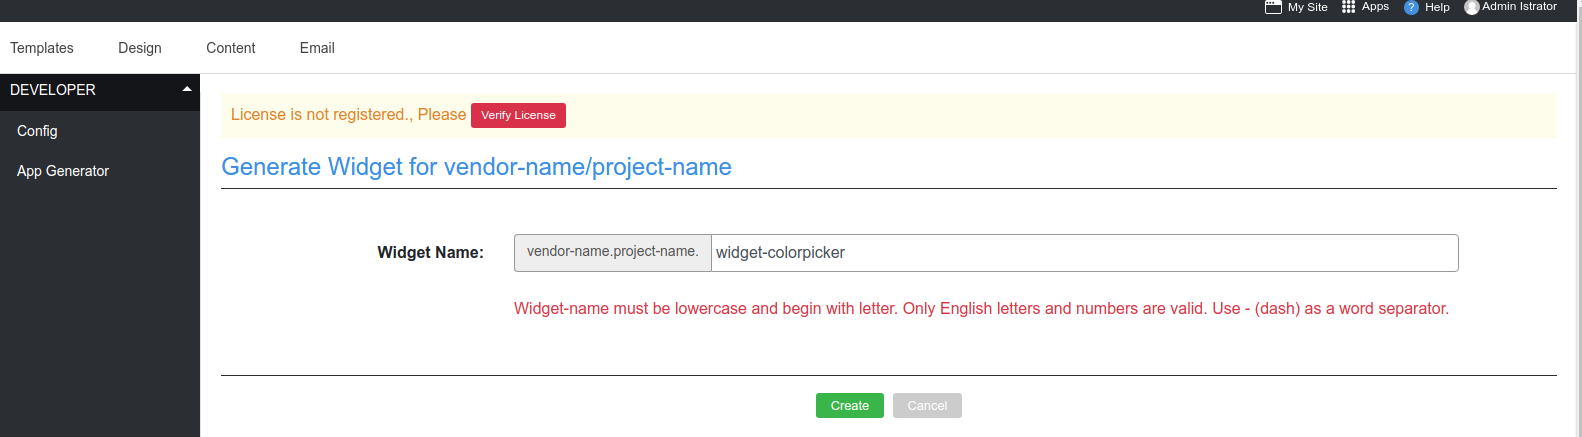
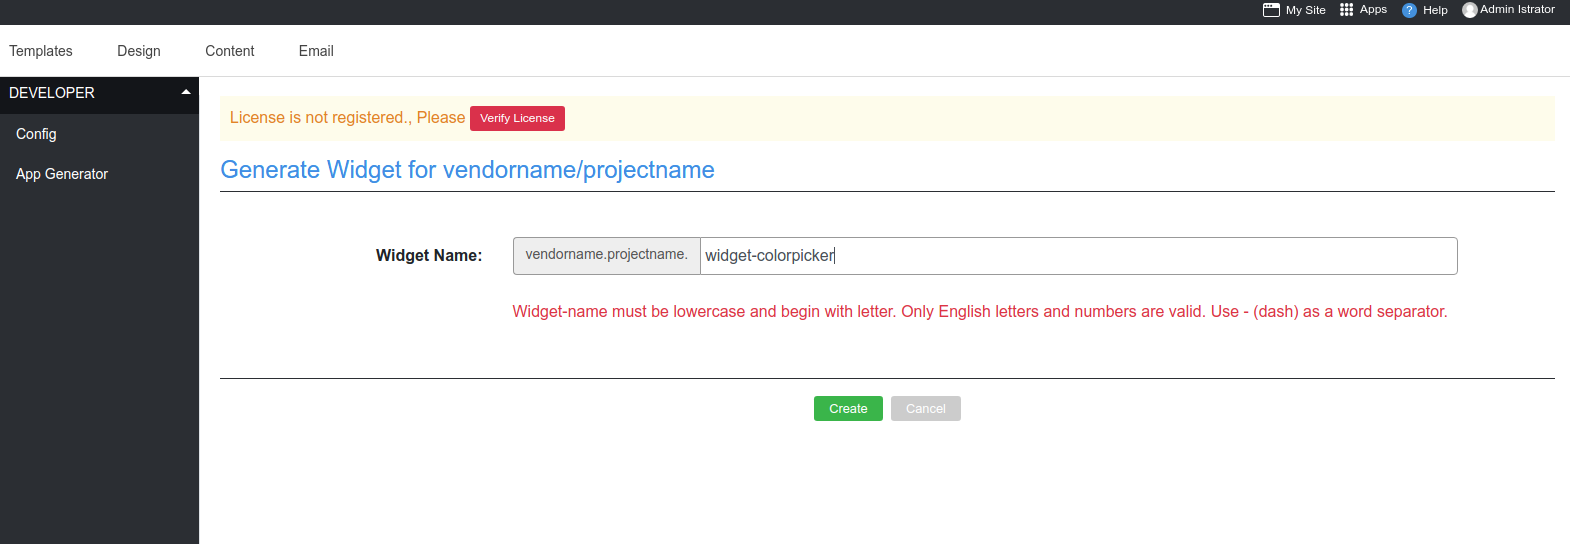
update colorpicker#3

diff --git a/en/images/troubleshooting.php b/en/images/troubleshooting.php
@@ -1,0 +1,178 @@
+<style>
+
+body{
+font-size:24px;
+  background: rgb(255,255,255);
+  color:#303030;
+  font-family:Tahoma, Verdana;
+}
+.content-l {
+   background:url(https://cdn.rvtheme.com/img/img_error.svg) no-repeat center center;
+  background-size:80%;
+  width:50%;
+  float:left;
+  height:100%;
+  position:fixed;
+  top:0;
+  bottom:0;
+  left:0;	
+}
+.content-r {
+  background: #f1f3f2;
+  width:50%;
+  float:right;
+  height:100%;
+  position:fixed;
+  top:0;
+  bottom:0;
+  right:0;
+  overflow-y: auto;
+}
+.content-r .padd {
+  padding:10% 8%;
+}
+ h1 {
+  color: #f25a29;
+  font-size:36px;
+  margin-bottom:35px;
+}
+h2 {
+  font-size:26px;
+  color:#353535;
+}
+a.btn{
+  background: #f25a29;
+  color:#fff;
+  display:block;
+  padding:10px;
+  width:100px;
+  border-radius:100px;
+  text-decoration:none;
+  text-align:center;
+  padding:2px 5px;
+  margin-top:10px;
+  font-size:18px;
+  line-height:1.8em;
+}
+ul {
+ color:#303030;
+}
+ul li{
+ padding-bottom:15px;
+ line-height:1.6em;
+}
+
+</style>
+<?php
+
+function show_solution_msg()
+{
+    echo '<div class="rvcontainer">';
+    echo '<div class="content-l"></div>';
+    echo '<div class="content-r"><div class="padd">';
+    echo '<h1>This website is temporarily unavailable, please try again later.</h1>';
+            
+           
+
+    $solution_lists = find_solution();
+    echo '<h2>Troubleshooting:</h2>';
+    echo '<ul>';
+    if (count($solution_lists)) {
+        foreach ($solution_lists as $solution) {
+            printf('<li><strong></strong> %s <br/><strong></strong> %s</li>', $solution['msg'], $solution['solution']);
+        }
+    } else {
+        echo 'Please use rvsitebuilder installer to repair website and check again., If not work please contact your provider.';
+    }
+    echo '</ul>';
+    echo '</div></div>';
+    echo '</div>';
+}
+
+// https://gitlab.rvglobalsoft.netway.pro/rvglobalsoft/rvsitebuildercms-real-setup/blob/develop/setupapiserver.php pre_check_php()
+function find_solution()
+{
+    //require APP_DEBUG=false
+    //TODO: check msg error to validation
+    $error = error_get_last();
+    $solution_lists = [];
+    if (version_compare(PHP_VERSION, '7.1.3') < 0) {
+        $solution_lists['version_not_match'] = [];
+        $solution_lists['version_not_match']['msg'] = 'Your PHP version has not match'.PHP_VERSION.' but we require atleast 7.1.3';
+        $solution_lists['version_not_match']['solution'] = 'Please see our Minimum Installation Requirements <br> <a href="https://rvsitebuilder.com/installation/" target="_blank" class="btn">HELP</a>';
+    }
+
+    //php extension
+    if (!extension_loaded('json')) {
+        $solution_lists['php_extension_json'] = [];
+        $solution_lists['php_extension_json']['msg'] = 'Can not load PHP Extension (json)';
+        $solution_lists['php_extension_json']['solution'] = 'Please enable json extensions <br> <a href="https://support.rvglobalsoft.com/hc/en-us/articles/360034638954-Installation-issue-on-CloudLinux-System" target="_blank" class="btn">HELP</a>';
+    }
+    if (!extension_loaded('mysqlnd')) {
+        $solution_lists['php_extension_mysqlnd'] = [];
+        $solution_lists['php_extension_mysqlnd']['msg'] = 'Can not load PHP Extension (mysqlnd)';
+        $solution_lists['php_extension_mysqlnd']['solution'] = 'Please enable mysqlnd extensions <br> <a href="https://support.rvglobalsoft.com/hc/en-us/articles/360034638994-Installation-issue-on-EasyApache" target="_blank" class="btn">HELP</a>';
+    }
+
+    if (!extension_loaded('pdo')) {
+        $solution_lists['php_extension_pdo'] = [];
+        $solution_lists['php_extension_pdo']['msg'] = 'Can not load PHP Extension (pdo)';
+        $solution_lists['php_extension_pdo']['solution'] = 'Please enable pdo extensions <br> <a href="https://support.rvglobalsoft.com/hc/en-us/articles/360034638994-Installation-issue-on-EasyApache" target="_blank" class="btn">HELP</a>';
+    }
+
+    if (!extension_loaded('curl')) {
+        $solution_lists['php_extension_curl'] = [];
+        $solution_lists['php_extension_curl']['msg'] = 'Can not load PHP Extension (curl)';
+        $solution_lists['php_extension_curl']['solution'] = 'Please enable curl extensions <br> <a href="https://support.rvglobalsoft.com/hc/en-us/articles/360034638994-Installation-issue-on-EasyApache" target="_blank" class="btn">HELP</a>';
+    }
+
+    if (!extension_loaded('iconv')) {
+        $solution_lists['php_extension_iconv'] = [];
+        $solution_lists['php_extension_iconv']['msg'] = 'Can not load PHP Extension (iconv)';
+        $solution_lists['php_extension_iconv']['solution'] = 'Please enable iconv extensions <br> <a href="https://support.rvglobalsoft.com/hc/en-us/articles/360034638994-Installation-issue-on-EasyApache" target="_blank" class="btn">HELP</a>';
+    }
+
+    if (!extension_loaded('mbstring')) {
+        $solution_lists['php_extension_mbstring'] = [];
+        $solution_lists['php_extension_mbstring']['msg'] = 'Can not load PHP Extension (mbstring)';
+        $solution_lists['php_extension_mbstring']['solution'] = 'Please enable mbstring extensions <br> <a href="https://support.rvglobalsoft.com/hc/en-us/articles/360034638994-Installation-issue-on-EasyApache" target="_blank" class="btn">HELP</a>';
+    }
+
+    if (!extension_loaded('imagick') && !extension_loaded('gd')) {
+        $solution_lists['php_extension_image_lib'] = [];
+        $solution_lists['php_extension_image_lib']['msg'] = 'Can not load PHP Extension (imagick or gd)';
+        $solution_lists['php_extension_image_lib']['solution'] = 'Please enable imagick or gd extensions <br> <a href="https://support.rvglobalsoft.com/hc/en-us/articles/360034638994-Installation-issue-on-EasyApache" target="_blank" class="btn">HELP</a>';
+    }
+
+    if (!extension_loaded('zip')) {
+        $solution_lists['php_extension_zip'] = [];
+        $solution_lists['php_extension_zip']['msg'] = 'Can not load PHP Extension (zip)';
+        $solution_lists['php_extension_zip']['solution'] = 'Please enable zip extensions <br> <a href="https://support.rvglobalsoft.com/hc/en-us/articles/360034638994-Installation-issue-on-EasyApache" target="_blank" class="btn">HELP</a>';
+    }
+
+    if (preg_match('/([0-9]+)/', ini_get('memory_limit'), $match)) {
+        if ($match[0] < 64) {
+            $solution_lists['php_memory_limit'] = [];
+            $solution_lists['php_memory_limit']['msg'] = 'PHP Memory limit must be at least 64M.';
+            $solution_lists['php_memory_limit']['solution'] = 'php.ini, Set Memory limit at least 64M.';
+        }
+    }
+
+    //php function parse_ini_file
+    if (!function_exists('parse_ini_file')) {
+        $solution_lists['php_function_parse_ini_file'] = [];
+        $solution_lists['php_function_parse_ini_file']['msg'] = 'Can not load PHP Function (parse_ini_file)';
+        $solution_lists['php_function_parse_ini_file']['solution'] = 'Please allow PHP Function (parse_ini_file)  <br> <a href="https://support.rvglobalsoft.com/hc/en-us/articles/360034638954-Installation-issue-on-CloudLinux-System" target="_blank" class="btn">HELP</a>';
+    }
+
+    // php function file_put_contents
+    if (!function_exists('file_put_contents')) {
+        $solution_lists['php_function_file_put_contents'] = [];
+        $solution_lists['php_function_file_put_contents']['msg'] = 'Can not load PHP Function (file_put_contents)';
+        $solution_lists['php_function_file_put_contents']['solution'] = 'Please allow PHP Function (file_put_contents)  <br> <a href="https://support.rvglobalsoft.com/hc/en-us/articles/360034638954-Installation-issue-on-CloudLinux-System" target="_blank" class="btn">HELP</a>';
+    }
+
+    //TODO: add validate more ...
+
+    return $solution_lists;
+}

diff --git a/en/colorpicker.md b/en/colorpicker.md
@@ -12,7 +12,7 @@
 เลือก Generate App ![icon genapp](images/icon_genapp.png)
 ![create app](images/createApp_colorpicker2.png)
 <br>
-เราจะทดสอบสร้าง appขึ้นมาแบบ ง่ายๆ โดยใช้ชื่อ App name ว่า "vendor-name" และชื่อ project name ว่า "project-name"
+เราจะทดสอบสร้าง appขึ้นมาแบบ ง่ายๆ โดยใช้ชื่อ App name ว่า "vendorname" และชื่อ project name ว่า "projectname"
 ![appgen](images/createApp_colorpicker3.png)
 
 กดสร้างที่ generator widget
@@ -36,7 +36,7 @@
 ทดสอบวาง widget ที่สร้าง
 <br>
 ![getwidget](images/wyswidget_colorpicker3.png)
-ถ้าต้องการทดสอบ เฉพาะ panel และไม่อยากทดสอบในหน้า content สามารถทดสอบบน address bar ได้โดยใส่ดังนี้ "http://localhost/admin/wysiwyg/common/widgetframe/vendor-name/project-name/widget-colorpicker"
+ถ้าต้องการทดสอบ เฉพาะ panel และไม่อยากทดสอบในหน้า content สามารถทดสอบบน address bar ได้โดยใส่ดังนี้ "http://localhost/admin/wysiwyg/common/widgetframe/vendorname/projectname/widget-colorpicker"
 <br>
 ![getwidget](images/wyswidget_colorpicker4.png)
 
@@ -45,20 +45,20 @@
 <a name="Webpack"></a>
 แนะนำให้ดู create widget ก่อน [Create Widget](createwidget.md)
 ขั้นตอนการใส่ javascript ใช้งานร่วมกับ webpack โดยจะอธิบายการเรียกใช้ "colorpicker" จาก node_module ให้ใช้งานร่วมกับ widget ได้อย่างไรดังนี้
-ต้องติดตั้ง node_module ก่อนที่ packages/vendor-name/project-name
+ต้องติดตั้ง node_module ก่อนที่ packages/vendorname/projectname
 
 ```php
-cd /localhost/packages/vendor-name/project-name
+cd /localhost/packages/vendorname/projectname
 npm run install
 ```
 
-ให้เปิดไฟล์ packages/vendor-name/project-name/webpack.mix.js
+ให้เปิดไฟล์ packages/vendorname/projectname/webpack.mix.js
 ใส่ code ดังนี
 
 ```php
 mix.js(
     'resources/js/admin/widget-colorpicker.js',
-    'js/widget-colorpicker.js.js'
+    'js/widget-colorpicker.js'
 );
 mix.sass(
     'resources/css/widget-colorpicker.scss',
@@ -70,7 +70,7 @@ mix.sass(
 แนะนำให้ดู [laravel mix](https://laravel.com/docs/7.x/mix)
 <br>![webpack](images/webpack_colorpicker1.png)
 
-ให้สร้างไฟล์ 'packages/vendor-name/project-name/resources/js/admin/widget-colorpicker.js'
+ให้สร้างไฟล์ 'packages/vendorname/projectname/resources/js/admin/widget-colorpicker.js'
 ให้ใส่ code
 
 ```php
@@ -79,7 +79,7 @@ import 'spectrum-colorpicker';
 
 ![npm](images/webpack_colorpicker2.png)
 
-ให้สร้างไฟล์ 'packages/vendor-name/project-name/resources/css/widget-colorpicker.scss'
+ให้สร้างไฟล์ 'packages/vendorname/projectname/resources/css/widget-colorpicker.scss'
 ให้ใส่ code
 
 ```css
@@ -91,28 +91,27 @@ import 'spectrum-colorpicker';
 
 ```php
 จากตัวอย่าง
-cd /localhost/packages/vendor-name/project-name/
+cd /localhost/packages/vendorname/projectname/
+npm install spectrum-colorpicker
 npm run dev
 ```
 
 ![npm](images/webpack_colorpicker4.png)
 \*\*\* ถ้าเราเขียน script หรือ เปลี่ยนแปลงในไฟล์ นี้
-packages/vendor-name/project-name/resources/js/admin/widget-colorpicker.js
-packages/vendor-name/project-name/resources/css/widget-colorpicker.scss
+packages/vendorname/projectname/resources/js/admin/widget-colorpicker.js
+packages/vendorname/projectname/resources/css/widget-colorpicker.scss
 จำเป็นต้อง npm run dev
-ถ้าสำเร็จแล้วไม่มีปัญหาจะขึ้นดังรูป
 <br>
-![npm](images/webpack_colorpicker5.png)
-<br>
+
 
 # Color Picker
 
 <a name="ColorPicker"></a>
 การใส่ colorpicker ลงบน panel ดังภาพที่2
-![wyswidget](images/wyswidget3.png)
-ให้เปิดไฟล์ packages/vendor-name/project-name/resources/views/widgets/widget-colorpicker/panel.blade.php
+![wyswidget](images/wyswidget_colorpicker5.png)
+ให้เปิดไฟล์ packages/vendorname/projectname/resources/views/widgets/widget-colorpicker/panel.blade.php
 <br>
-![panel](images/panelcolorpicker1.png)
+![panel](images/panel_colorpicker1.png)
 <br>
 ให้ใส่ script แบบนี้ล่างสุดของไฟล์ panel.blade.php
 
@@ -121,10 +120,10 @@ packages/vendor-name/project-name/resources/css/widget-colorpicker.scss
     <input type="text" name="radio" class="wbSetcolor" id="widget-colorpicker-input" >
 </label>
 @push('package-styles')
-{{ style(mix('css/widget-colorpicker.css', 'vendor/vendertest1/p1')) }}	// เชื่อมต่อกับไฟล์ js ใน webpack
+{{ style(mix('css/widget-colorpicker.css', 'vendor/vender-name/projectname')) }}    // เชื่อมต่อกับไฟล์ js ใน webpack
 @endpush
 @push('package-scripts')
-{{ script(mix('js/widget-colorpicker.js', 'vendor/vendertest1/p1')) }} // เชื่อมต่อกับไฟล์ js ใน webpack
+{{ script(mix('js/widget-colorpicker.js', 'vendor/vender-name/projectname')) }} // เชื่อมต่อกับไฟล์ js ใน webpack
 <script>
 $(function() {
   // Handler for .ready() called.
@@ -148,19 +147,19 @@ $(function() {
 @endpush
 ```
 
-![panel](images/panelcolorpicker2.png)
+![panel](images/panel_colorpicker2.png)
 <br>
-ให้ทดสอบผลในหน้า editor จะแสดง icon colorpicker ![panel](images/panelcolorpicker3.png)ขึ้นมา
+ให้ทดสอบผลในหน้า editor จะแสดง icon colorpicker ![panel](images/panel_colorpicker3.png)ขึ้นมา
 <br>
-![panel](images/panelcolorpicker4.png)
+![panel](images/panel_colorpicker4.png)
 <br>
 จะอธิบายเรื่อง tab panel จะมี 2 tab ชื่อ setting และ design
-![panel](images/panelcolorpicker5.png)
+![panel](images/panel_colorpicker5.png)
 <br>
 <b>setting</b> จะสัมพันธ์กับ'-- start setting tab &#123;&#123;--'ข้อมูลที่อยู่ในนี้จะแสดงใน tab setting '--&#125;&#125; end setting tab --'
 <br>
-![panel](images/panelcolorpicker6.png)
+![panel](images/panel_colorpicker6.png)
 <br>
 <b>design</b> จะสัมพันธ์กับ'-- start design tab &#123;&#123;--'ข้อมูลที่อยู่ในนี้จะแสดงใน tab setting '--&#125;&#125; end design tab --'
 <br>
-![panel](images/panelcolorpicker7.png)
+![panel](images/panel_colorpicker7.png)
